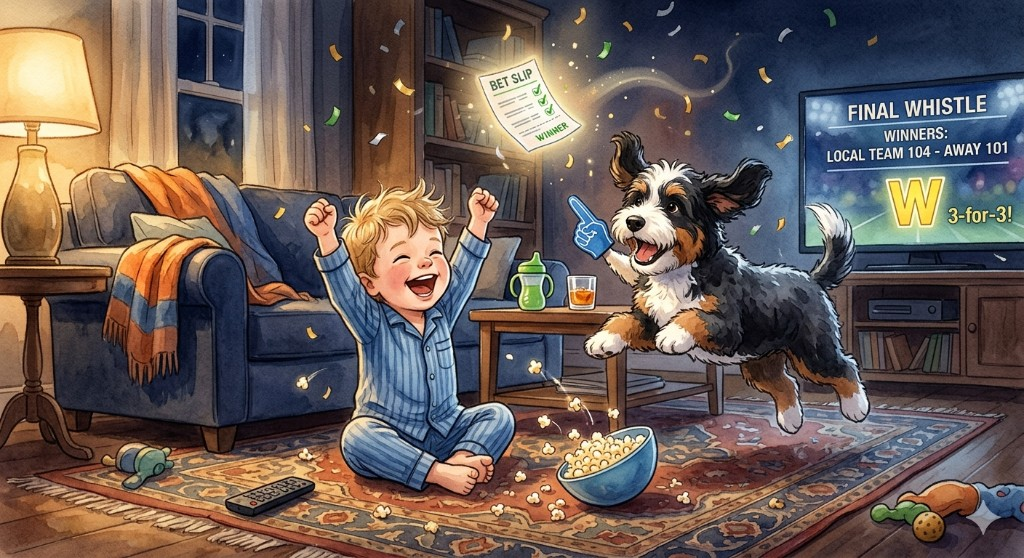
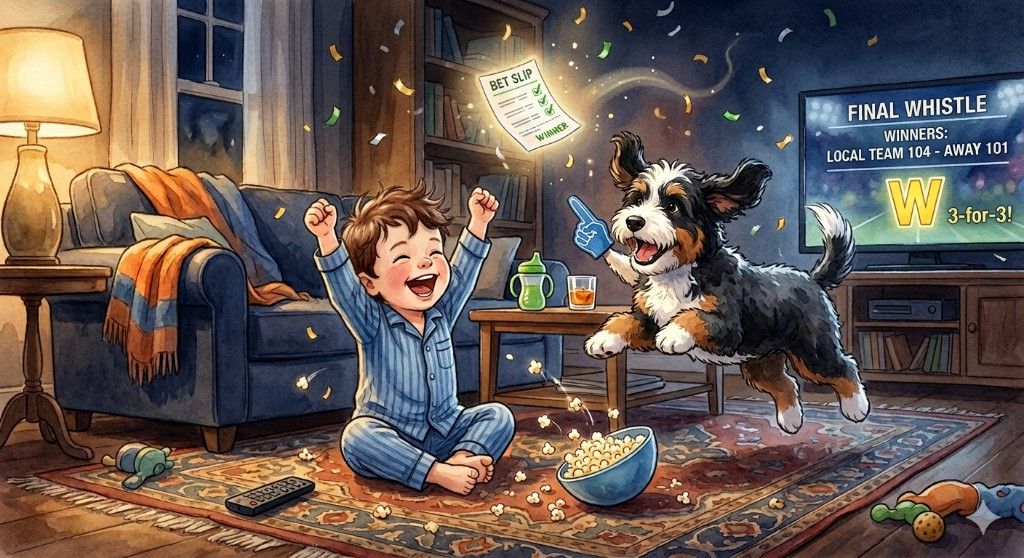
feat(frontend): refresh Owen's Corner hero illustration
Replace the hero image with the new celebration artwork and add descriptive alt text.

Changed region(s): [[0.3125, 0.3047, 0.4375, 0.5484], [0.5625, 0.7921, 0.5938, 0.8226]]

diff --git a/frontend/src/components/yetai/OwensCornerHero.tsx b/frontend/src/components/yetai/OwensCornerHero.tsx
@@ -7,7 +7,7 @@ export default function OwensCornerHero() {
     <header className="owens-corner-hero" aria-labelledby="owens-corner-title">
       <img
         src={HERO_SRC}
-        alt=""
+        alt="Illustration of Owen and his dog celebrating a winning bet slip with confetti"
         className="owens-corner-hero__img"
         decoding="async"
         fetchPriority="high"
